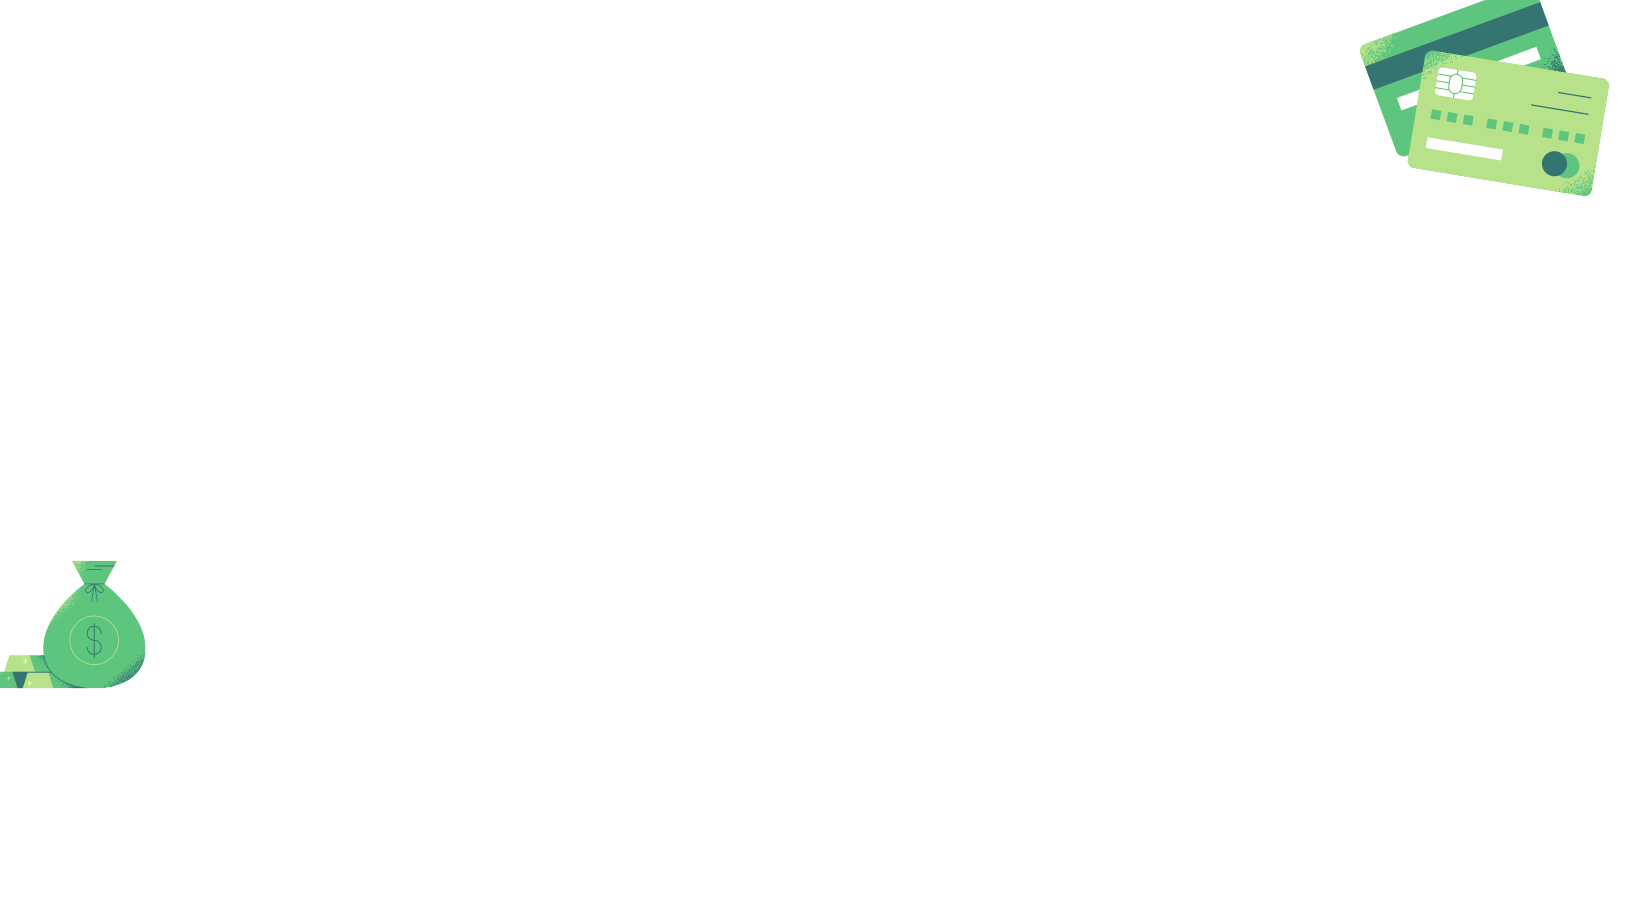
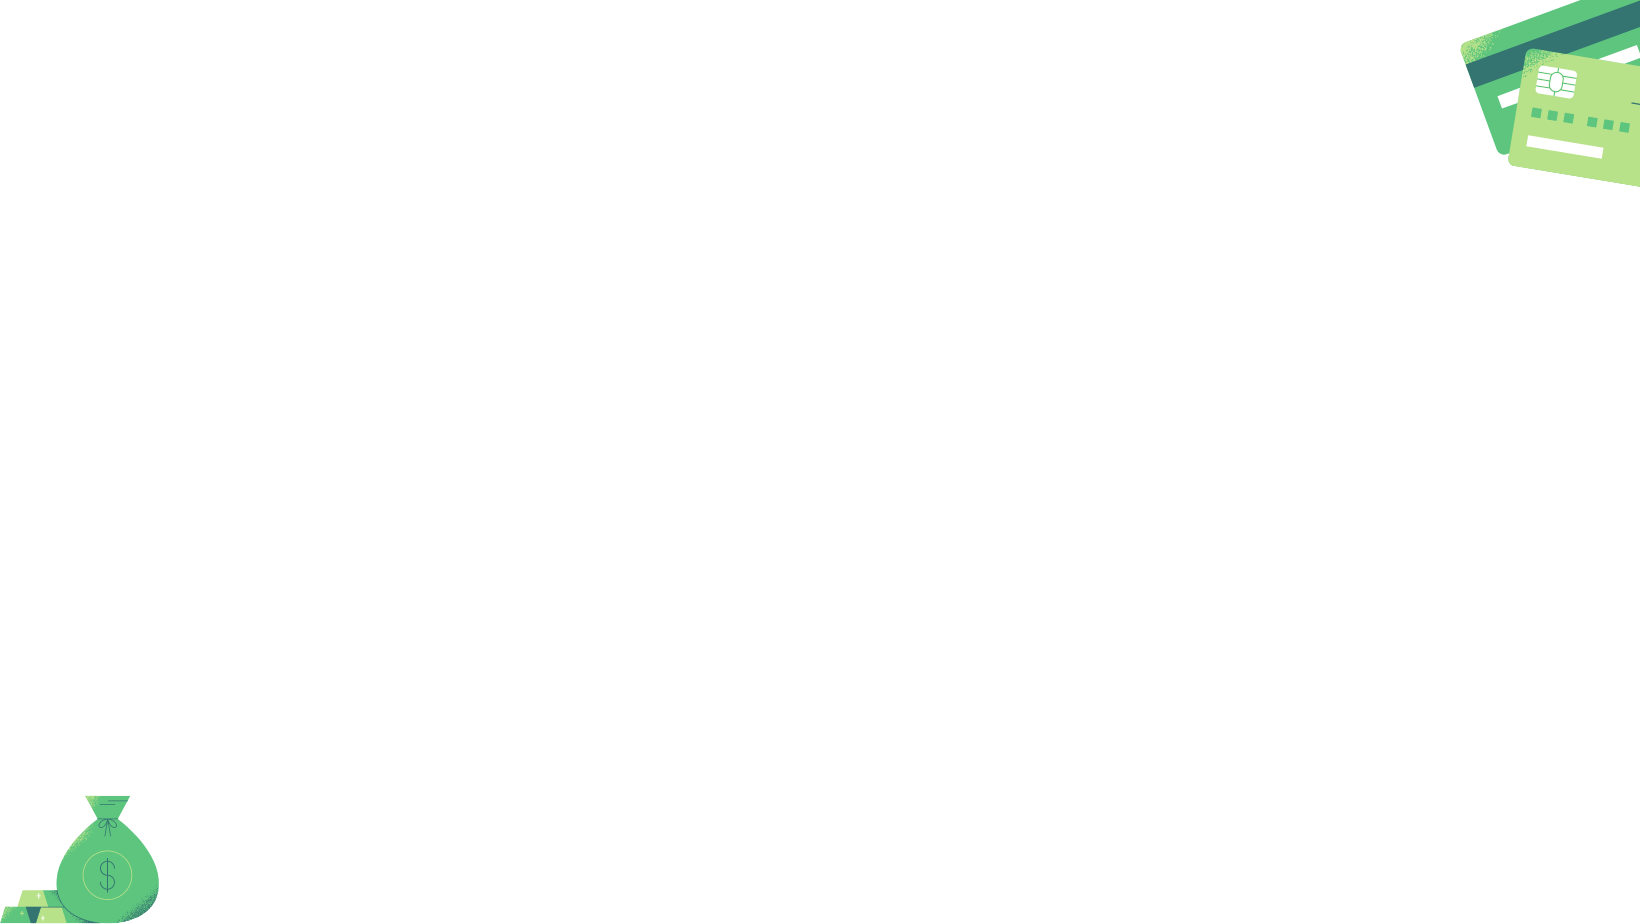
add full offer image

Changed region(s): [[0.8085, 0.0, 1.0, 0.2121], [0.0, 0.8485, 0.1244, 1.0], [0.0, 0.6061, 0.0933, 0.7576]]

diff --git a/frontend/travel-blog/src/app/blog/articles/full-offer/full-offer.component.scss b/frontend/travel-blog/src/app/blog/articles/full-offer/full-offer.component.scss
@@ -1,7 +1,10 @@
 .fullOffer{
     background-image: url("/assets/images/fullOfferWhite.png");
-    width: 1540px;
-    height:700px;
+    background-position: center;
+    background-repeat: no-repeat;
+    background-attachment: fixed;
+    //width:100%;
+    //height: 100%;
 }
 
 .offer{
